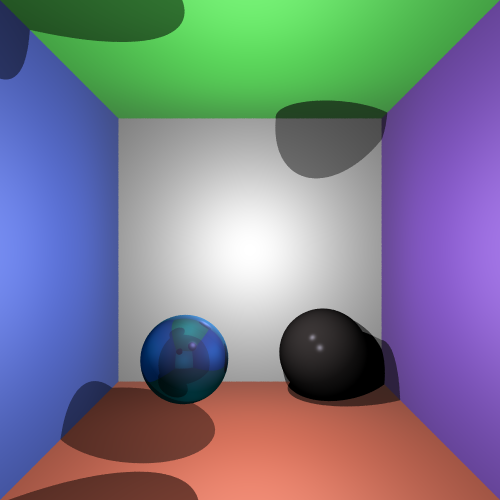
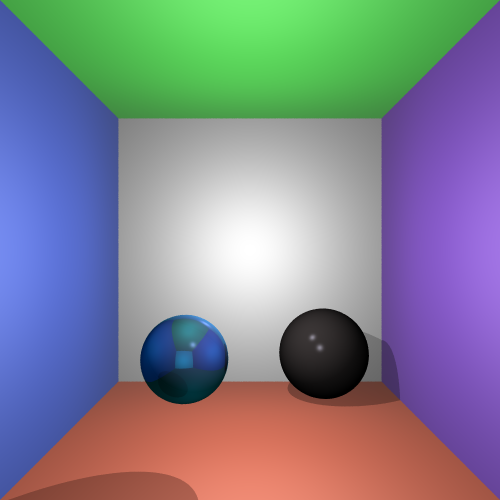
finish shadows

diff --git a/src/Objects/Surface.java b/src/Objects/Surface.java
@@ -7,11 +7,13 @@ import RayTracing.RayTracer;
 public abstract class Surface {
 	
 	Material material;
+	boolean isInterfered;
 	float epsilon = (float)0.0001;
 
 	public Surface(Material material) {
 		super();
 		this.material = material;
+		isInterfered = false;
 	}
 
 	public Material getMaterial() {
@@ -32,6 +34,7 @@ public abstract class Surface {
 	
 	public Objects.Color getOutputColorInPoint(Point point, Scene scene, Ray ray, RayTracer rayTracer, int recursionStep)
 	{
+		this.isInterfered = false;
 		Point normal = new Point(getNormal(point).getX(), getNormal(point).getY(), getNormal(point).getZ());
 		Point smallAddOn = normal.multiply(epsilon);
 		if(this instanceof Sphere){
@@ -53,20 +56,41 @@ public abstract class Surface {
 			float Ir = Math.abs(light.getDiffuseColorR(point, this, rayToLight)) +  Math.abs(light.getSpecularColorR(point, this, rayToLight, ray));
 			float Ig = Math.abs(light.getDiffuseColorG(point, this, rayToLight)) +  Math.abs(light.getSpecularColorG(point, this, rayToLight, ray));
 			float Ib = Math.abs(light.getDiffuseColorB(point, this, rayToLight)) +  Math.abs(light.getSpecularColorB(point, this, rayToLight, ray));
-			float softShadows;
+			float softShadows, hardShadows;
+			Boolean bool = false;
+			Vector v1 = new Vector(light.getPosition(), point);
+			Ray rayFromLight = new Ray(light.getPosition(), v1);
+			hardShadows = light.computeHardShadows(scene, this, rayFromLight, point, bool);
+			
 			if(scene.getShadowRaysNumber() == 1)
 			{
-				softShadows = light.computeHardShadows(scene, rayToLight, point);
+				softShadows = hardShadows;
 			}
 			else
 			{
-				softShadows = light.computeSoftShadowsCoef(scene, point, this, rayToLight);
+				softShadows = light.computeSoftShadowsCoef(scene, point, this, rayToLight, bool);
 			}
 			
+			float Ir0 = Ir*(1-light.getShadowIntensity());
+			float Ig0 = Ig*(1-light.getShadowIntensity());
+			float Ib0 = Ib*(1-light.getShadowIntensity());
+			if(this.isInterfered == false)
+			{
+				r += (Ir*softShadows);
+				g += (Ig*softShadows);
+				b += (Ib*softShadows);
+			}
+			else
+			{
+				r += (Ir0 +softShadows*(Ir-Ir0));
+				g += (Ig0 +softShadows*(Ig-Ig0));
+				b += (Ib0 +softShadows*(Ib-Ib0));
+			}
+
 			
-			r += (Ir*softShadows);
-			g += (Ig*softShadows);
-			b += (Ib*softShadows);
+			//r += (Ir*softShadows);
+			//g += (Ig*softShadows);
+			//b += (Ib*softShadows);
 				
 			
 

diff --git a/src/Objects/Light.java b/src/Objects/Light.java
@@ -99,7 +99,7 @@ public class Light {
 		return (float) (surface.getMaterial().sb * Math.pow(rayFromViewer.getVector().dotProduct(R.getVector()), surface.getMaterial().getPhong())*this.getB()*specularIntensity);
 	}
 	
-	public float computeSoftShadowsCoef(Scene scene, Point point, Surface surface, Ray rayToLight)
+	public float computeSoftShadowsCoef(Scene scene, Point point, Surface surface, Ray rayToLight, Boolean bool)
 	{
 		int N = scene.getShadowRaysNumber();
 		Vector v = new Vector(2,6,7);
@@ -137,15 +137,22 @@ public class Light {
 					{
 						intersectionDistace = p.FindDistanceFromPoint(screenPoint);
 						pointDistance = point.FindDistanceFromPoint(screenPoint);
+
 					}
-					if ( p != null && intersectionDistace <= pointDistance)
+					if ( p != null && intersectionDistace < pointDistance)
 					{
+						if(surface1 != surface)
+						{
+							bool = true;
+						}
+
 						badRaysCounter++;
 						break;
 					}
 				}
 			}
 		}
+		badRaysCounter = (int)(badRaysCounter);
 		float allRaysCounter = (float)(N*N);
 		float goodRaysCounter = (float) (allRaysCounter - badRaysCounter);
 		
@@ -154,23 +161,35 @@ public class Light {
 			int sanityCheck = 0;
 			sanityCheck++;
 		}
+		if(goodRaysCounter != N*N)
+		{
+			return (goodRaysCounter / allRaysCounter);
+		}
 		return goodRaysCounter / allRaysCounter;
 	}
 	
-	public float computeHardShadows(Scene scene, Ray rayToLight, Point point)
+	public float computeHardShadows(Scene scene, Surface surface, Ray rayFromLight, Point point, Boolean bool)
 	{
 		int returnValue = 1;
 		
-		for (Surface surface : scene.getSurfaces())
+		for (Surface surface1 : scene.getSurfaces())
 		{
+			Point p = surface1.findClosestIntesectionWithRay(rayFromLight);
 			
-			Point p = surface.findClosestIntesectionWithRay(rayToLight);
-			if ( p != null && p.FindDistanceFromPoint(position) <= point.FindDistanceFromPoint(position))
+			if ( p != null && p.FindDistanceFromPoint(position) < point.FindDistanceFromPoint(position))
 			{
+				if(surface1 != surface)
+				{
+					surface.isInterfered = true;
+				}
+
 				returnValue = 0;
-			}
+			}	
 		}
-		
+		//if(returnValue == 0)
+		//{
+		//	return (1-this.shadowIntensity);
+		//}
 		return returnValue;
 	}
 	
